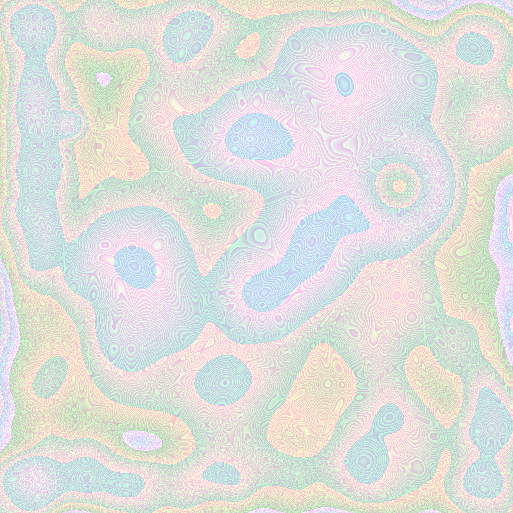
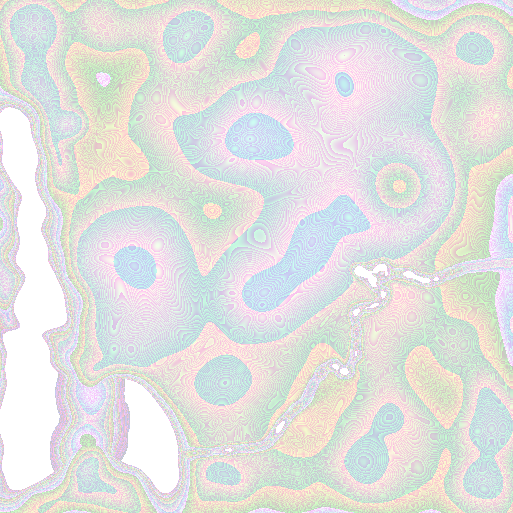
Baked Landscape
General Landscape baked

Changed region(s): [[0.0, 0.1248, 1.0, 1.0]]

diff --git a/Notes.md b/Notes.md
@@ -3,3 +3,5 @@ John, Below are changes that i've made and the dates i've made them. Feel free t
 11/17/17
 	Started Git and Project
 	Made Land -- Land smoothed out
+11/18/17
+	Baked General Landscape Shape
